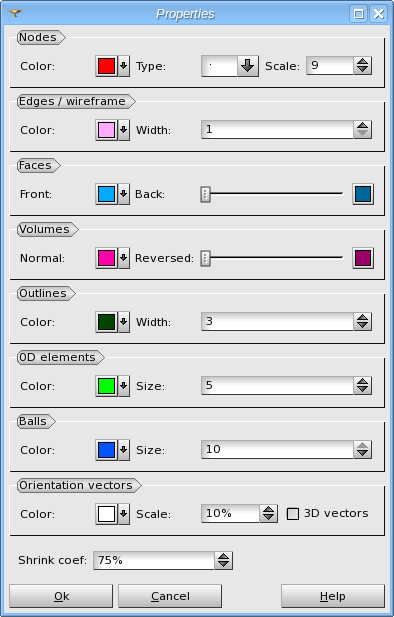
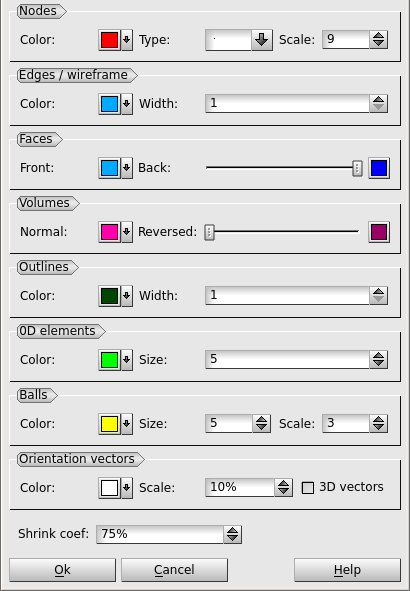
0022479: EDF 2823 SMESH: Add "multiplier" coefficient for balls

diff --git a/src/SMESHGUI/SMESH_msg_fr.ts b/src/SMESHGUI/SMESH_msg_fr.ts
@@ -4568,6 +4568,10 @@ Ouvrez une fenêtre VTK et essayez de nouveau</translation>
         <translation>Taille des éléments particulaires</translation>
     </message>
     <message>
+        <source>PREF_BALL_SCALE</source>
+        <translation>Facteur d&apos;échelle des éléments particulaires</translation>
+    </message>
+    <message>
         <source>PREF_WIDTH</source>
         <translation>Epaisseur de ligne</translation>
     </message>
@@ -7701,7 +7705,7 @@ en raison de leurs types incompatibles:
         <translation>Taille:</translation>
     </message>
     <message>
-        <source>ORIENTATION_SCALE</source>
+        <source>SCALE_FACTOR</source>
         <translation>Echelle:</translation>
     </message>
     <message>

diff --git a/src/SMESHGUI/SMESH_msg_en.ts b/src/SMESHGUI/SMESH_msg_en.ts
@@ -4578,6 +4578,10 @@ Please, create VTK viewer and try again</translation>
         <translation>Size of ball elements</translation>
     </message>
     <message>
+        <source>PREF_BALL_SCALE</source>
+        <translation>Scale factor of ball elements</translation>
+    </message>
+    <message>
         <source>PREF_WIDTH</source>
         <translation>Line width</translation>
     </message>
@@ -7776,7 +7780,7 @@ as they are of improper type:
         <translation>Size:</translation>
     </message>
     <message>
-        <source>ORIENTATION_SCALE</source>
+        <source>SCALE_FACTOR</source>
         <translation>Scale:</translation>
     </message>
     <message>

diff --git a/src/SMESHGUI/SMESH_msg_ja.ts b/src/SMESHGUI/SMESH_msg_ja.ts
@@ -7579,7 +7579,7 @@
       <translation>サイズ</translation>
     </message>
     <message>
-      <source>ORIENTATION_SCALE</source>
+      <source>SCALE_FACTOR</source>
       <translation>スケール:</translation>
     </message>
     <message>

diff --git a/src/SMESHGUI/SMESHGUI_PropertiesDlg.h b/src/SMESHGUI/SMESHGUI_PropertiesDlg.h
@@ -83,6 +83,8 @@ public:
   QColor            ballColor() const;
   void              setBallSize( int );
   int               ballSize() const;
+  void              setBallScale( int );
+  int               ballScale() const;
 
   void              setOrientationColor( const QColor& );
   QColor            orientationColor() const;
@@ -132,6 +134,7 @@ private:
   // - balls
   QtxColorButton*         myBallColor;
   QtxIntSpinBox*          myBallSize;
+  QtxIntSpinBox*          myBallScale;
   // - orientation vectors
   QtxColorButton*         myOrientationColor;
   QtxIntSpinBox*          myOrientationSize;

diff --git a/src/OBJECT/SMESH_DeviceActor.h b/src/OBJECT/SMESH_DeviceActor.h
@@ -148,11 +148,13 @@ class SMESHOBJECT_EXPORT SMESH_DeviceActor: public vtkLODActor{
 
   void SetMarkerEnabled( bool );
   void SetBallEnabled( bool );
+  void SetBallScale( int );
   void SetMarkerStd( VTK::MarkerType, VTK::MarkerScale );
   void SetMarkerTexture( int, VTK::MarkerTexture );
   VTK::MarkerType GetMarkerType();
   VTK::MarkerScale GetMarkerScale();
   int GetMarkerTexture();
+  int GetBallScale();
 
  protected:
   void Init(TVisualObjPtr theVisualObj, vtkImplicitBoolean* theImplicitBoolean);

diff --git a/src/OBJECT/SMESH_Actor.h b/src/OBJECT/SMESH_Actor.h
@@ -101,6 +101,9 @@ class SMESHOBJECT_EXPORT SMESH_Actor: public SALOME_Actor
   virtual void SetBallSize(double size) = 0;
   virtual double GetBallSize() = 0;
 
+  virtual void SetBallScale(int size) = 0;
+  virtual int GetBallScale() = 0;
+
   enum EReperesent { ePoint, eEdge, eSurface};
   
   enum EEntityMode { e0DElements = 0x01, eEdges = 0x02, eFaces = 0x04, eVolumes = 0x08, eBallElem = 0x10, eAllEntity = 0x1f};

diff --git a/src/OBJECT/SMESH_ActorDef.h b/src/OBJECT/SMESH_ActorDef.h
@@ -144,6 +144,9 @@ class SMESH_ActorDef : public SMESH_Actor
   virtual void SetBallSize(double size);
   virtual double GetBallSize();
 
+  virtual void SetBallScale(int size);
+  virtual int GetBallScale();
+
   virtual int GetNodeObjId(int theVtkID);
   virtual double* GetNodeCoord(int theObjID);
 
